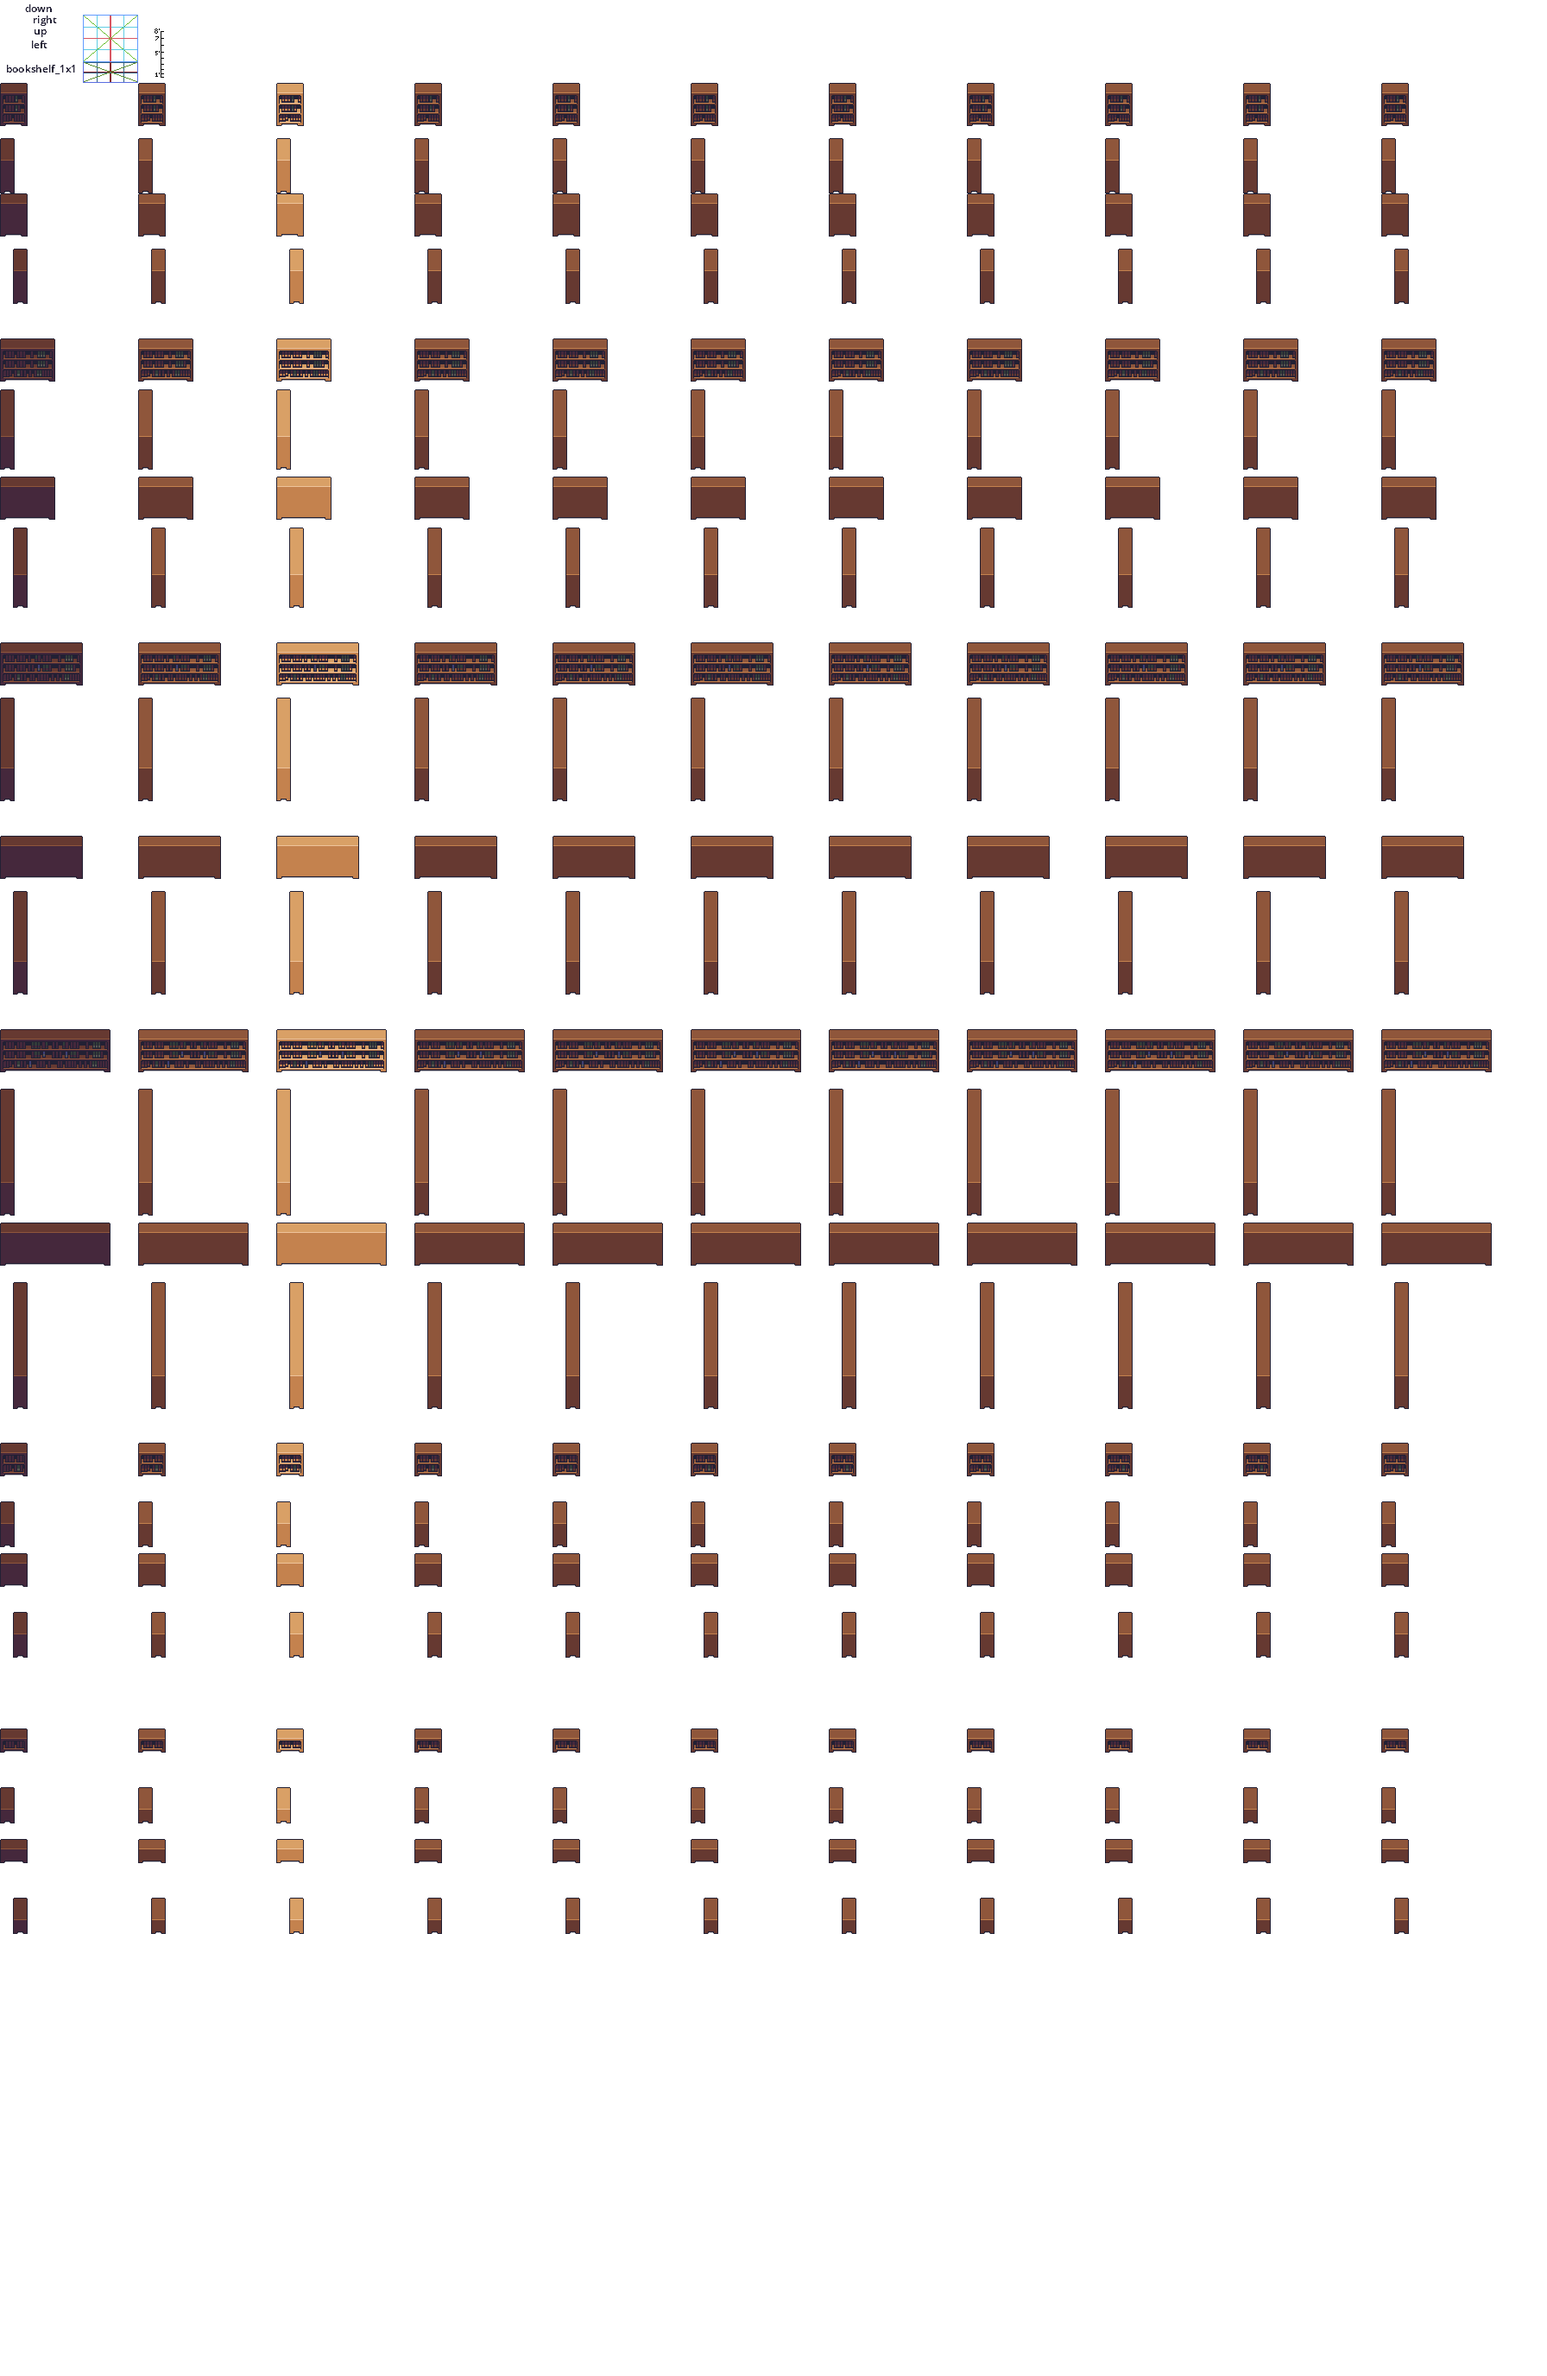
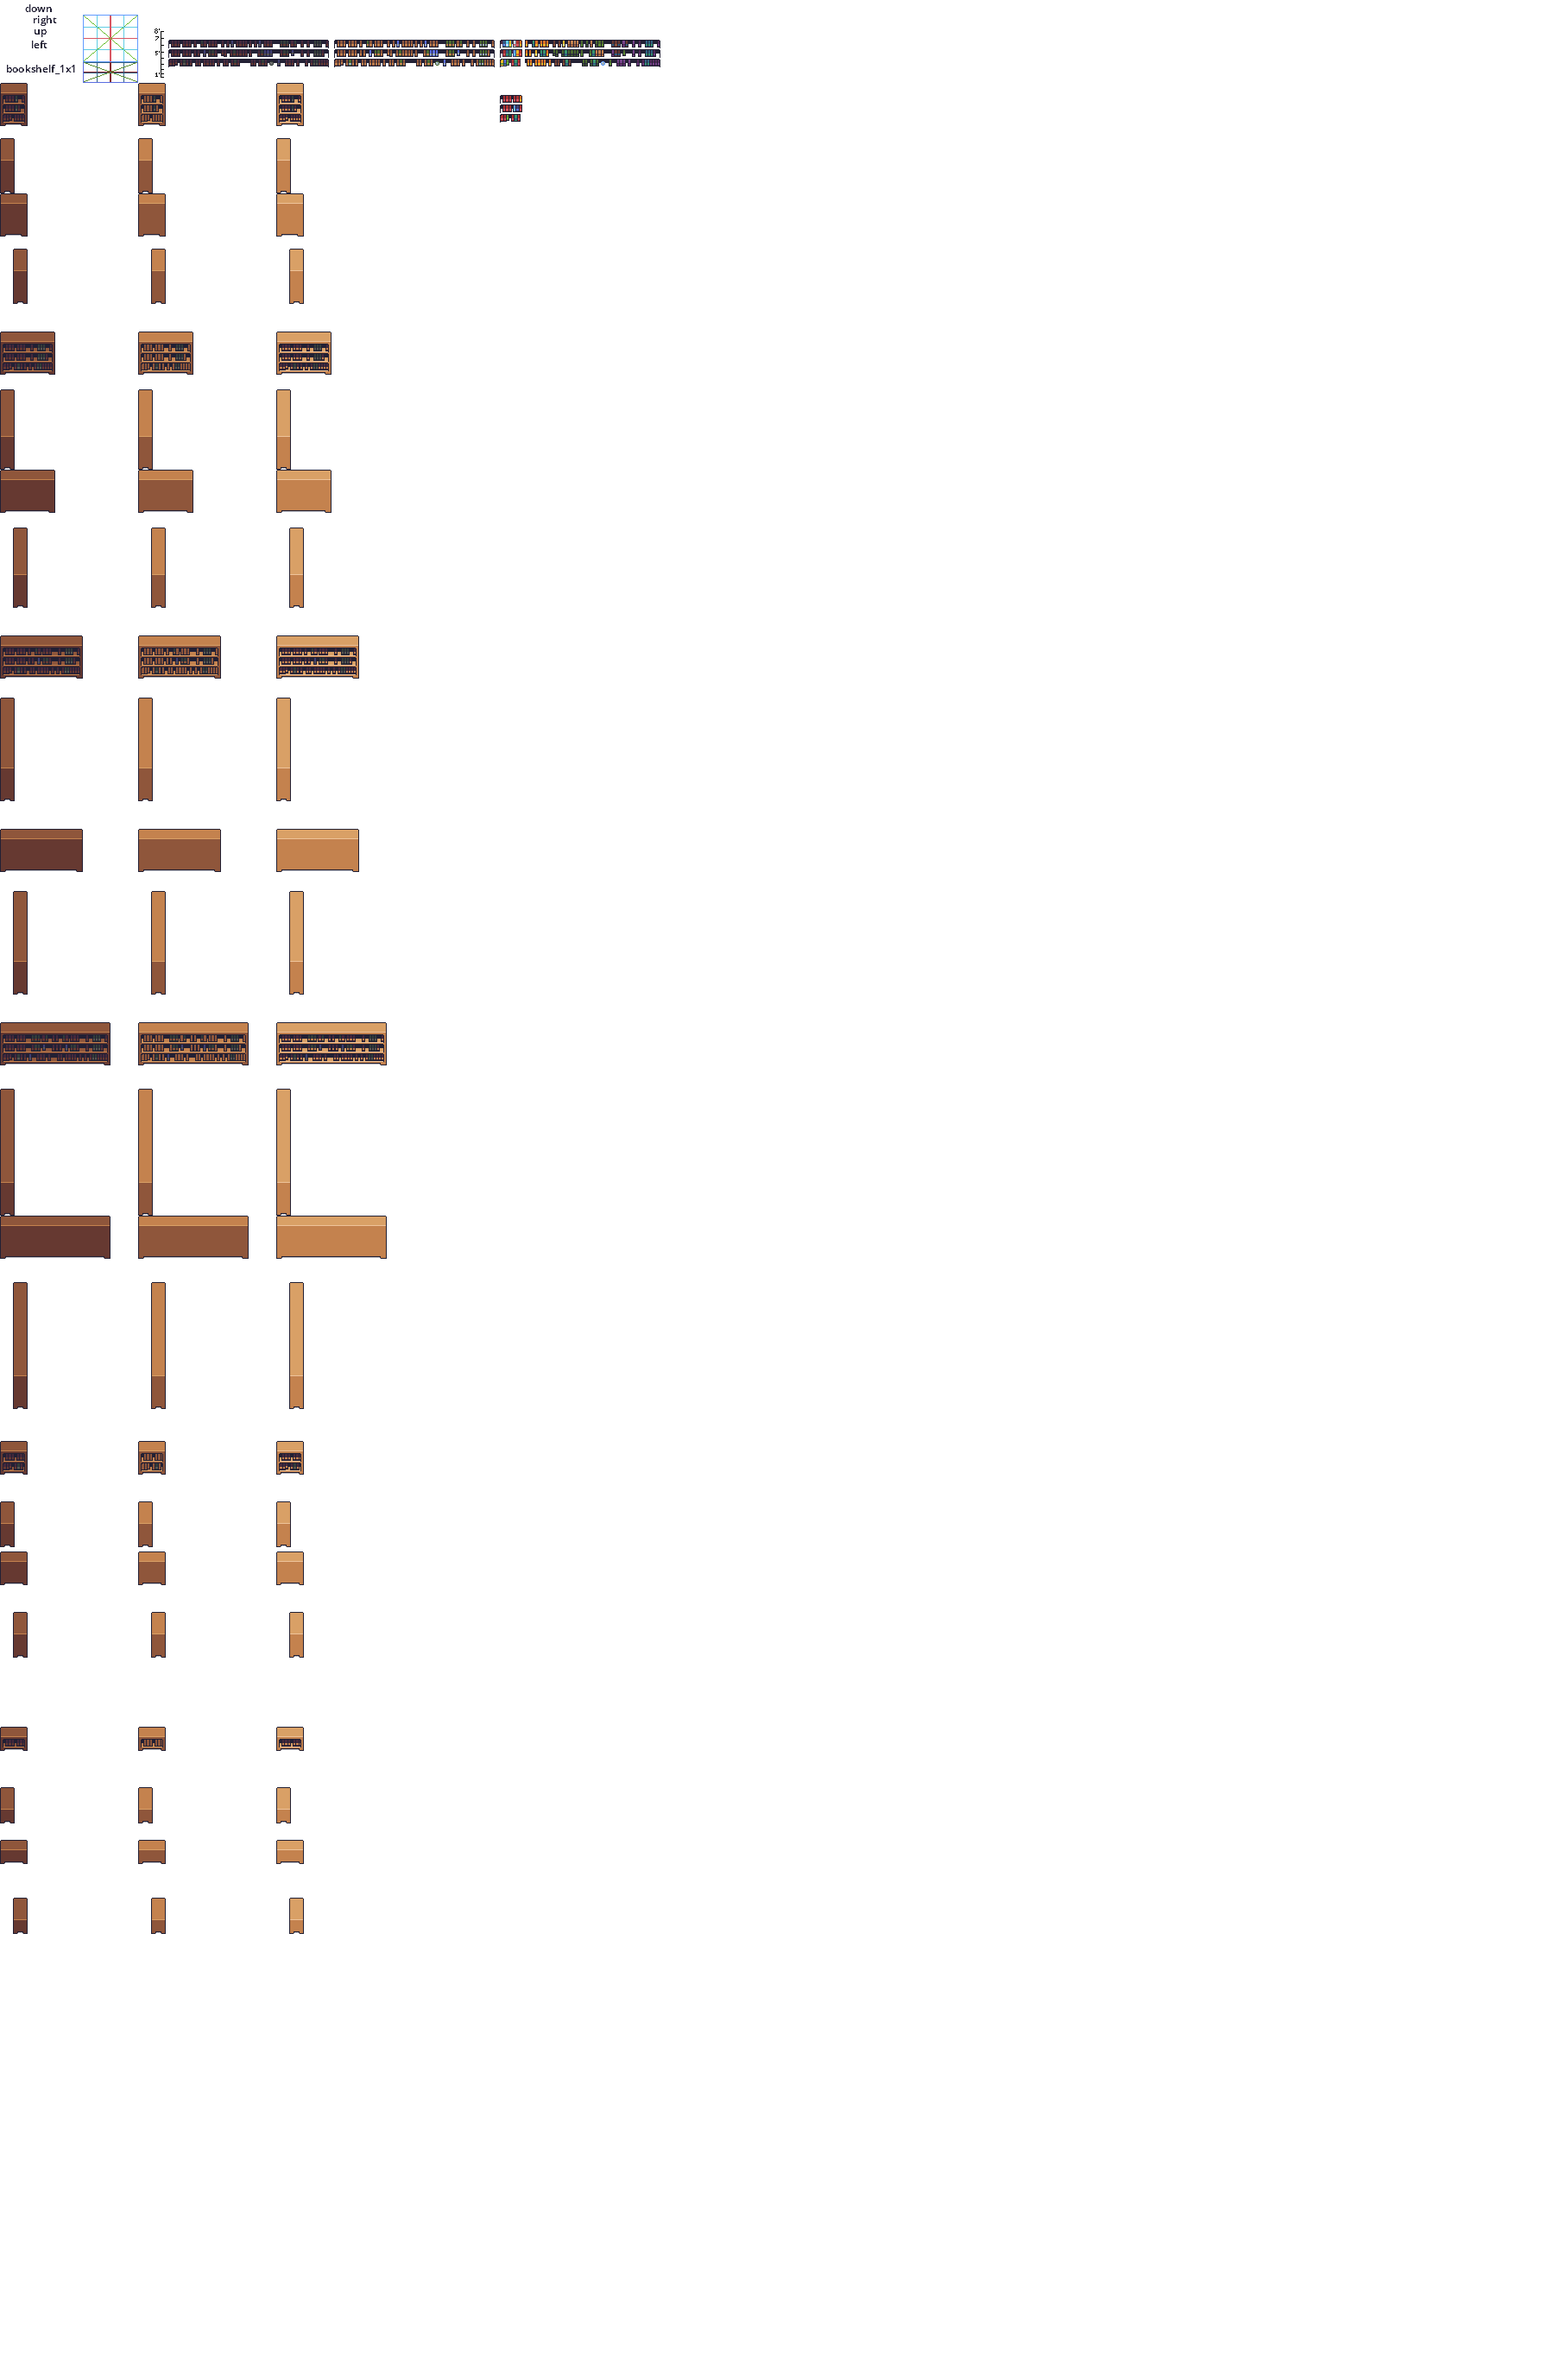
Bookshelves wip

diff --git a/tilesets/bookshelves.tsx b/tilesets/bookshelves.tsx
@@ -1,0 +1,4 @@
+<?xml version="1.0" encoding="UTF-8"?>
+<tileset version="1.4" tiledversion="1.4.3" name="bookshelves" tilewidth="32" tileheight="32" tilecount="4816" columns="56">
+ <image source="../OBJECT TEMPLATE WEEK/1 to pixel push/bookshelves.png" width="1792" height="2752"/>
+</tileset>
